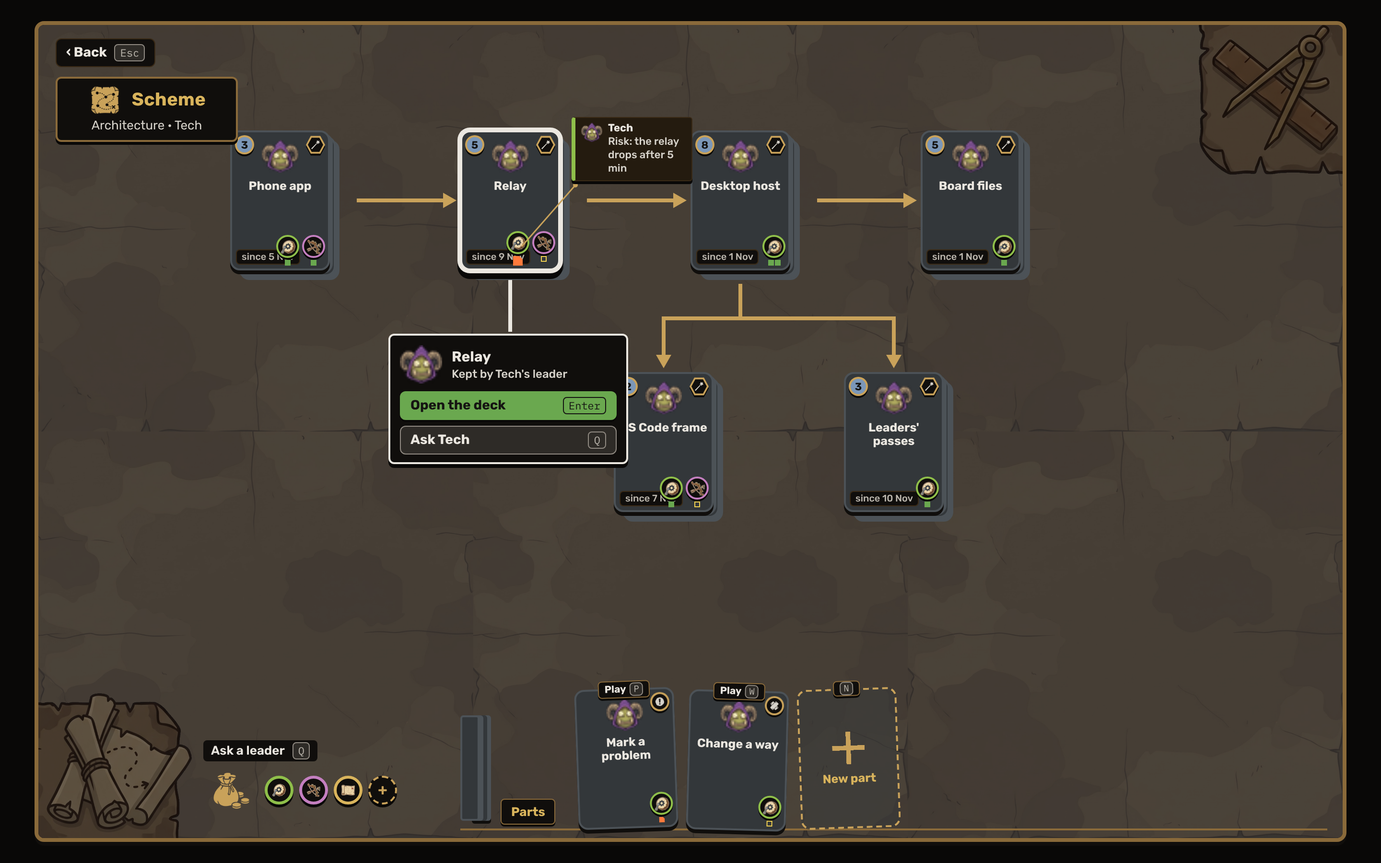
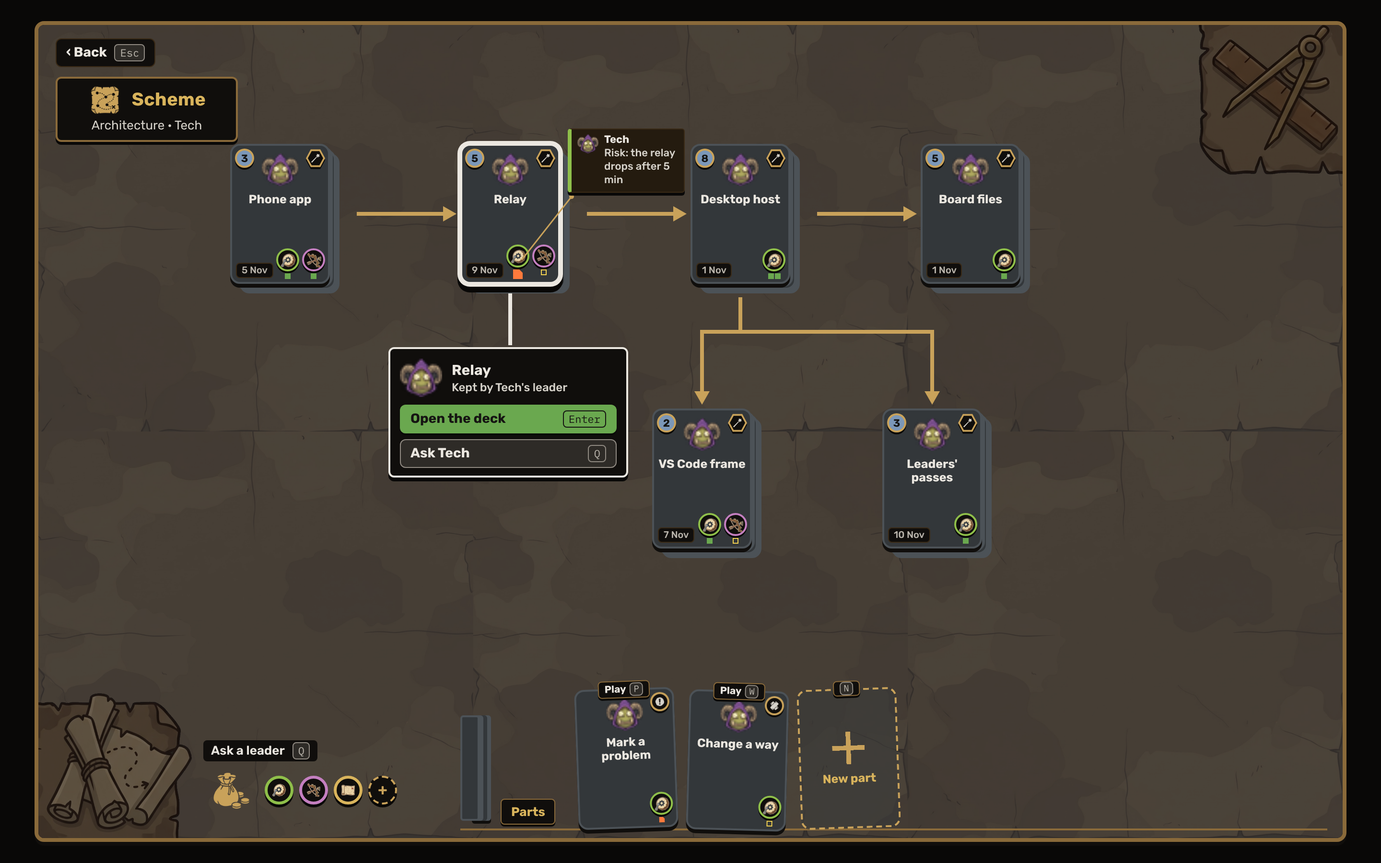
Mat mockups round 3: Slots as pockets of S cards, Scheme as decks of S cards, tool tokens with their slips
Claude-Session: https://claude.ai/code/session_01MCU3dnmwpxzAdFr5WE7TTZ

diff --git a/docs/mockups/mat-scenes/scheme.html b/docs/mockups/mat-scenes/scheme.html
@@ -146,7 +146,7 @@ body[data-face="phone"] .fpanel .btns { flex-direction: row; gap: 6px; margin-to
 body[data-face="phone"] .pouchbar { top: 584px; }
 </style>
 </head>
-<body data-face="desk"><script>try { if (new URLSearchParams(location.search).get("face") === "phone") document.body.dataset.face = "phone"; } catch (e) {}</script><div class="stage"><div class="field" data-party="ork"><div class="top"><span class="back">&lsaquo; Back <kbd class="k">Esc</kbd></span><div class="plate"><b><i aria-hidden="true"></i>Scheme</b><span>Architecture &middot; Tech</span></div></div><div class="desk-only"><div class="deck  " style="left:200px;top:110px"><i class="bk b3"></i><i class="bk b2"></i><i class="bk b1"></i><div class="card s"><span class="gw tl"><span class="gem circle mana"><i class="in">3</i></span></span><span class="gw tr"><span class="gem hex"><i class="in"><i class="ks" style="--k:url(../../../design-system/orkui/signs/feature.svg)"></i></i></span></span><img class="hd" src="../../../design-system/orkui/races/shaman-elder.png" alt=""><b class="t">Phone app</b><span class="when">since 5 Nov</span><span class="toks"><span class="tkn tech"><span class="ring"><img src="../../../design-system/orkui/tools/drum-gear.png" alt=""></span><span class="chk"><i class="ok"></i></span></span><span class="tkn design"><span class="ring"><img src="../../../design-system/orkui/tools/bow-drip.png" alt=""></span><span class="chk"><i class="ok"></i></span></span></span></div></div><div class="deck focus " style="left:440px;top:110px"><i class="bk b3"></i><i class="bk b2"></i><i class="bk b1"></i><div class="card s"><span class="gw tl"><span class="gem circle mana"><i class="in">5</i></span></span><span class="gw tr"><span class="gem hex"><i class="in"><i class="ks" style="--k:url(../../../design-system/orkui/signs/feature.svg)"></i></i></span></span><img class="hd" src="../../../design-system/orkui/races/shaman-elder.png" alt=""><b class="t">Relay</b><span class="when">since 9 Nov</span><span class="toks"><span class="tkn tech"><span class="ring" id="rtok"><img src="../../../design-system/orkui/tools/drum-gear.png" alt=""></span><span class="chk big"><i class="risk"></i></span></span><span class="tkn design"><span class="ring"><img src="../../../design-system/orkui/tools/bow-drip.png" alt=""></span><span class="chk"><i class="q"></i></span></span></span></div></div><div class="deck  " style="left:680px;top:110px"><i class="bk b3"></i><i class="bk b2"></i><i class="bk b1"></i><div class="card s"><span class="gw tl"><span class="gem circle mana"><i class="in">8</i></span></span><span class="gw tr"><span class="gem hex"><i class="in"><i class="ks" style="--k:url(../../../design-system/orkui/signs/feature.svg)"></i></i></span></span><img class="hd" src="../../../design-system/orkui/races/shaman-elder.png" alt=""><b class="t">Desktop host</b><span class="when">since 1 Nov</span><span class="toks"><span class="tkn tech"><span class="ring"><img src="../../../design-system/orkui/tools/drum-gear.png" alt=""></span><span class="chk"><i class="ok"></i><i class="ok"></i></span></span></span></div></div><div class="deck  " style="left:920px;top:110px"><i class="bk b3"></i><i class="bk b2"></i><i class="bk b1"></i><div class="card s"><span class="gw tl"><span class="gem circle mana"><i class="in">5</i></span></span><span class="gw tr"><span class="gem hex"><i class="in"><i class="ks" style="--k:url(../../../design-system/orkui/signs/feature.svg)"></i></i></span></span><img class="hd" src="../../../design-system/orkui/races/shaman-elder.png" alt=""><b class="t">Board files</b><span class="when">since 1 Nov</span><span class="toks"><span class="tkn tech"><span class="ring"><img src="../../../design-system/orkui/tools/drum-gear.png" alt=""></span><span class="chk"><i class="ok"></i></span></span></span></div></div><div class="deck  " style="left:600px;top:362px"><i class="bk b3"></i><i class="bk b2"></i><i class="bk b1"></i><div class="card s"><span class="gw tl"><span class="gem circle mana"><i class="in">2</i></span></span><span class="gw tr"><span class="gem hex"><i class="in"><i class="ks" style="--k:url(../../../design-system/orkui/signs/feature.svg)"></i></i></span></span><img class="hd" src="../../../design-system/orkui/races/shaman-elder.png" alt=""><b class="t">VS Code frame</b><span class="when">since 7 Nov</span><span class="toks"><span class="tkn tech"><span class="ring"><img src="../../../design-system/orkui/tools/drum-gear.png" alt=""></span><span class="chk"><i class="ok"></i></span></span><span class="tkn design"><span class="ring"><img src="../../../design-system/orkui/tools/bow-drip.png" alt=""></span><span class="chk"><i class="q"></i></span></span></span></div></div><div class="deck  " style="left:840px;top:362px"><i class="bk b3"></i><i class="bk b2"></i><i class="bk b1"></i><div class="card s"><span class="gw tl"><span class="gem circle mana"><i class="in">3</i></span></span><span class="gw tr"><span class="gem hex"><i class="in"><i class="ks" style="--k:url(../../../design-system/orkui/signs/feature.svg)"></i></i></span></span><img class="hd" src="../../../design-system/orkui/races/shaman-elder.png" alt=""><b class="t">Leaders' passes</b><span class="when">since 10 Nov</span><span class="toks"><span class="tkn tech"><span class="ring"><img src="../../../design-system/orkui/tools/drum-gear.png" alt=""></span><span class="chk"><i class="ok"></i></span></span></span></div></div><svg class="arrows" width="1360" height="848" viewBox="0 0 1360 848" aria-hidden="true"><path d="M332 183  L424 183"/><polygon points="436,183 422,175 422,191"/><path d="M572 183  L664 183"/><polygon points="676,183 662,175 662,191"/><path d="M812 183  L904 183"/><polygon points="916,183 902,175 902,191"/><path d="M732 270 L732 306 L652 306 L652 346"/><polygon points="652,358 644,344 660,344"/><path d="M732 270 L732 306 L892 306 L892 346"/><polygon points="892,358 884,344 900,344"/></svg><i class="tie" style="left:490px;top:266px;height:54px"></i><div class="fpanel" style="left:365px;top:322px"><img class="hd" src="../../../design-system/orkui/races/shaman-elder.png" alt=""><b>Relay</b><small>Kept by Tech's leader</small><div class="btns"><span class="btn go">Open the deck <kbd class="k">Enter</kbd></span><span class="btn">Ask Tech <kbd class="k">Q</kbd></span></div></div><div class="slip tech" data-for="rtok" style="left:556px;top:96px;width:126px;"><img src="../../../design-system/orkui/races/shaman-elder.png" alt=""><div><b>Tech</b>Risk: the relay drops after 5 min</div></div></div><div class="pscroll"><div class="deck  " style="left:10px;top:6px"><i class="bk b3"></i><i class="bk b2"></i><i class="bk b1"></i><div class="card s"><span class="gw tl"><span class="gem circle mana"><i class="in">3</i></span></span><span class="gw tr"><span class="gem hex"><i class="in"><i class="ks" style="--k:url(../../../design-system/orkui/signs/feature.svg)"></i></i></span></span><img class="hd" src="../../../design-system/orkui/races/shaman-elder.png" alt=""><b class="t">Phone app</b><span class="when">since 5 Nov</span><span class="toks"><span class="tkn tech"><span class="ring"><img src="../../../design-system/orkui/tools/drum-gear.png" alt=""></span><span class="chk"><i class="ok"></i></span></span><span class="tkn design"><span class="ring"><img src="../../../design-system/orkui/tools/bow-drip.png" alt=""></span><span class="chk"><i class="ok"></i></span></span></span></div></div><div class="deck focus " style="left:10px;top:182px"><i class="bk b3"></i><i class="bk b2"></i><i class="bk b1"></i><div class="card s"><span class="gw tl"><span class="gem circle mana"><i class="in">5</i></span></span><span class="gw tr"><span class="gem hex"><i class="in"><i class="ks" style="--k:url(../../../design-system/orkui/signs/feature.svg)"></i></i></span></span><img class="hd" src="../../../design-system/orkui/races/shaman-elder.png" alt=""><b class="t">Relay</b><span class="when">since 9 Nov</span><span class="toks"><span class="tkn tech"><span class="ring" id="rtokp"><img src="../../../design-system/orkui/tools/drum-gear.png" alt=""></span><span class="chk big"><i class="risk"></i></span></span><span class="tkn design"><span class="ring"><img src="../../../design-system/orkui/tools/bow-drip.png" alt=""></span><span class="chk"><i class="q"></i></span></span></span></div></div><div class="deck  " style="left:10px;top:358px"><i class="bk b3"></i><i class="bk b2"></i><i class="bk b1"></i><div class="card s"><span class="gw tl"><span class="gem circle mana"><i class="in">8</i></span></span><span class="gw tr"><span class="gem hex"><i class="in"><i class="ks" style="--k:url(../../../design-system/orkui/signs/feature.svg)"></i></i></span></span><img class="hd" src="../../../design-system/orkui/races/shaman-elder.png" alt=""><b class="t">Desktop host</b><span class="when">since 1 Nov</span><span class="toks"><span class="tkn tech"><span class="ring"><img src="../../../design-system/orkui/tools/drum-gear.png" alt=""></span><span class="chk"><i class="ok"></i><i class="ok"></i></span></span></span></div></div><div class="deck  " style="left:10px;top:534px"><i class="bk b3"></i><i class="bk b2"></i><i class="bk b1"></i><div class="card s"><span class="gw tl"><span class="gem circle mana"><i class="in">5</i></span></span><span class="gw tr"><span class="gem hex"><i class="in"><i class="ks" style="--k:url(../../../design-system/orkui/signs/feature.svg)"></i></i></span></span><img class="hd" src="../../../design-system/orkui/races/shaman-elder.png" alt=""><b class="t">Board files</b><span class="when">since 1 Nov</span><span class="toks"><span class="tkn tech"><span class="ring"><img src="../../../design-system/orkui/tools/drum-gear.png" alt=""></span><span class="chk"><i class="ok"></i></span></span></span></div></div><div class="deck  " style="left:200px;top:358px"><i class="bk b3"></i><i class="bk b2"></i><i class="bk b1"></i><div class="card s"><span class="gw tl"><span class="gem circle mana"><i class="in">2</i></span></span><span class="gw tr"><span class="gem hex"><i class="in"><i class="ks" style="--k:url(../../../design-system/orkui/signs/feature.svg)"></i></i></span></span><img class="hd" src="../../../design-system/orkui/races/shaman-elder.png" alt=""><b class="t">VS Code frame</b><span class="when">since 7 Nov</span><span class="toks"><span class="tkn tech"><span class="ring"><img src="../../../design-system/orkui/tools/drum-gear.png" alt=""></span><span class="chk"><i class="ok"></i></span></span><span class="tkn design"><span class="ring"><img src="../../../design-system/orkui/tools/bow-drip.png" alt=""></span><span class="chk"><i class="q"></i></span></span></span></div></div><div class="deck  " style="left:200px;top:534px"><i class="bk b3"></i><i class="bk b2"></i><i class="bk b1"></i><div class="card s"><span class="gw tl"><span class="gem circle mana"><i class="in">3</i></span></span><span class="gw tr"><span class="gem hex"><i class="in"><i class="ks" style="--k:url(../../../design-system/orkui/signs/feature.svg)"></i></i></span></span><img class="hd" src="../../../design-system/orkui/races/shaman-elder.png" alt=""><b class="t">Leaders' passes</b><span class="when">since 10 Nov</span><span class="toks"><span class="tkn tech"><span class="ring"><img src="../../../design-system/orkui/tools/drum-gear.png" alt=""></span><span class="chk"><i class="ok"></i></span></span></span></div></div><svg class="arrows" width="362" height="760" viewBox="0 0 362 760" aria-hidden="true"><path d="M62 166  L62 168"/><polygon points="62,180 54,166 70,166"/><path d="M62 342  L62 344"/><polygon points="62,356 54,342 70,342"/><path d="M62 518  L62 520"/><polygon points="62,532 54,518 70,518"/><path d="M126 431  L186 431"/><polygon points="198,431 184,423 184,439"/><path d="M162 431 L162 607 L186 607"/><polygon points="198,607 184,599 184,615"/></svg><div class="fpanel" style="left:140px;top:186px"><img class="hd" src="../../../design-system/orkui/races/shaman-elder.png" alt=""><b>Relay</b><small>Kept by Tech's leader</small><div class="btns"><span class="btn go">Open the deck <kbd class="k">Enter</kbd></span><span class="btn">Ask Tech <kbd class="k">Q</kbd></span></div></div><div class="slip tech" data-for="rtokp" style="left:140px;top:280px;width:212px;"><img src="../../../design-system/orkui/races/shaman-elder.png" alt=""><div><b>Tech</b>Risk: the relay drops after 5 min</div></div></div><i class="rail" aria-hidden="true"></i><div class="hand"><i class="pile" aria-label="Moves that wait"></i><span class="holds">Parts</span><div class="cs"><div class="card s"><span class="keytab">Play <kbd class="k">P</kbd></span><span class="gw tr"><span class="gem circle"><i class="in"><i class="ks" style="--k:url(../../../design-system/orkui/signs/alert.svg)"></i></i></span></span><img class="hd" src="../../../design-system/orkui/races/shaman-elder.png" alt=""><b class="t">Mark a problem</b><span class="toks"><span class="tkn tech"><span class="ring"><img src="../../../design-system/orkui/tools/drum-gear.png" alt=""></span><span class="chk"><i class="risk"></i></span></span></span></div><div class="card s"><span class="keytab">Play <kbd class="k">W</kbd></span><span class="gw tr"><span class="gem circle"><i class="in"><i class="ks" style="--k:url(../../../design-system/orkui/signs/conflict.svg)"></i></i></span></span><img class="hd" src="../../../design-system/orkui/races/shaman-elder.png" alt=""><b class="t">Change a way</b><span class="toks"><span class="tkn tech"><span class="ring"><img src="../../../design-system/orkui/tools/drum-gear.png" alt=""></span><span class="chk"><i class="q"></i></span></span></span></div><div class="card blank"><span class="keytab"><kbd class="k">N</kbd></span><i class="plus"></i><b class="t">New part</b></div></div></div><div class="pouchbar"><span class="cap">Ask a leader <kbd class="k">Q</kbd></span><i class="pouch" aria-hidden="true"></i><div class="row"><span class="ptk tech"><img src="../../../design-system/orkui/tools/drum-gear.png" alt="tech"></span><span class="ptk design"><img src="../../../design-system/orkui/tools/bow-drip.png" alt="design"></span><span class="ptk product"><img src="../../../design-system/orkui/tools/map-cross.png" alt="product"></span><span class="ptk add" title="Ask another">+</span></div></div><div class="prop tr" aria-hidden="true"><img src="props/scheme-tr.png" alt=""></div><div class="prop bl" aria-hidden="true"><img src="props/scheme-bl.png" alt=""></div></div></div><script>
+<body data-face="desk"><script>try { if (new URLSearchParams(location.search).get("face") === "phone") document.body.dataset.face = "phone"; } catch (e) {}</script><div class="stage"><div class="field" data-party="ork"><div class="top"><span class="back">&lsaquo; Back <kbd class="k">Esc</kbd></span><div class="plate"><b><i aria-hidden="true"></i>Scheme</b><span>Architecture &middot; Tech</span></div></div><div class="desk-only"><div class="deck  " style="left:200px;top:124px"><i class="bk b3"></i><i class="bk b2"></i><i class="bk b1"></i><div class="card s"><span class="gw tl"><span class="gem circle mana"><i class="in">3</i></span></span><span class="gw tr"><span class="gem hex"><i class="in"><i class="ks" style="--k:url(../../../design-system/orkui/signs/feature.svg)"></i></i></span></span><img class="hd" src="../../../design-system/orkui/races/shaman-elder.png" alt=""><b class="t">Phone app</b><span class="when">5 Nov</span><span class="toks"><span class="tkn tech"><span class="ring"><img src="../../../design-system/orkui/tools/drum-gear.png" alt=""></span><span class="chk"><i class="ok"></i></span></span><span class="tkn design"><span class="ring"><img src="../../../design-system/orkui/tools/bow-drip.png" alt=""></span><span class="chk"><i class="ok"></i></span></span></span></div></div><div class="deck focus " style="left:440px;top:124px"><i class="bk b3"></i><i class="bk b2"></i><i class="bk b1"></i><div class="card s"><span class="gw tl"><span class="gem circle mana"><i class="in">5</i></span></span><span class="gw tr"><span class="gem hex"><i class="in"><i class="ks" style="--k:url(../../../design-system/orkui/signs/feature.svg)"></i></i></span></span><img class="hd" src="../../../design-system/orkui/races/shaman-elder.png" alt=""><b class="t">Relay</b><span class="when">9 Nov</span><span class="toks"><span class="tkn tech"><span class="ring" id="rtok"><img src="../../../design-system/orkui/tools/drum-gear.png" alt=""></span><span class="chk big"><i class="risk"></i></span></span><span class="tkn design"><span class="ring"><img src="../../../design-system/orkui/tools/bow-drip.png" alt=""></span><span class="chk"><i class="q"></i></span></span></span></div></div><div class="deck  " style="left:680px;top:124px"><i class="bk b3"></i><i class="bk b2"></i><i class="bk b1"></i><div class="card s"><span class="gw tl"><span class="gem circle mana"><i class="in">8</i></span></span><span class="gw tr"><span class="gem hex"><i class="in"><i class="ks" style="--k:url(../../../design-system/orkui/signs/feature.svg)"></i></i></span></span><img class="hd" src="../../../design-system/orkui/races/shaman-elder.png" alt=""><b class="t">Desktop host</b><span class="when">1 Nov</span><span class="toks"><span class="tkn tech"><span class="ring"><img src="../../../design-system/orkui/tools/drum-gear.png" alt=""></span><span class="chk"><i class="ok"></i><i class="ok"></i></span></span></span></div></div><div class="deck  " style="left:920px;top:124px"><i class="bk b3"></i><i class="bk b2"></i><i class="bk b1"></i><div class="card s"><span class="gw tl"><span class="gem circle mana"><i class="in">5</i></span></span><span class="gw tr"><span class="gem hex"><i class="in"><i class="ks" style="--k:url(../../../design-system/orkui/signs/feature.svg)"></i></i></span></span><img class="hd" src="../../../design-system/orkui/races/shaman-elder.png" alt=""><b class="t">Board files</b><span class="when">1 Nov</span><span class="toks"><span class="tkn tech"><span class="ring"><img src="../../../design-system/orkui/tools/drum-gear.png" alt=""></span><span class="chk"><i class="ok"></i></span></span></span></div></div><div class="deck  " style="left:640px;top:400px"><i class="bk b3"></i><i class="bk b2"></i><i class="bk b1"></i><div class="card s"><span class="gw tl"><span class="gem circle mana"><i class="in">2</i></span></span><span class="gw tr"><span class="gem hex"><i class="in"><i class="ks" style="--k:url(../../../design-system/orkui/signs/feature.svg)"></i></i></span></span><img class="hd" src="../../../design-system/orkui/races/shaman-elder.png" alt=""><b class="t">VS Code frame</b><span class="when">7 Nov</span><span class="toks"><span class="tkn tech"><span class="ring"><img src="../../../design-system/orkui/tools/drum-gear.png" alt=""></span><span class="chk"><i class="ok"></i></span></span><span class="tkn design"><span class="ring"><img src="../../../design-system/orkui/tools/bow-drip.png" alt=""></span><span class="chk"><i class="q"></i></span></span></span></div></div><div class="deck  " style="left:880px;top:400px"><i class="bk b3"></i><i class="bk b2"></i><i class="bk b1"></i><div class="card s"><span class="gw tl"><span class="gem circle mana"><i class="in">3</i></span></span><span class="gw tr"><span class="gem hex"><i class="in"><i class="ks" style="--k:url(../../../design-system/orkui/signs/feature.svg)"></i></i></span></span><img class="hd" src="../../../design-system/orkui/races/shaman-elder.png" alt=""><b class="t">Leaders' passes</b><span class="when">10 Nov</span><span class="toks"><span class="tkn tech"><span class="ring"><img src="../../../design-system/orkui/tools/drum-gear.png" alt=""></span><span class="chk"><i class="ok"></i></span></span></span></div></div><svg class="arrows" width="1360" height="848" viewBox="0 0 1360 848" aria-hidden="true"><path d="M332 197  L424 197"/><polygon points="436,197 422,189 422,205"/><path d="M572 197  L664 197"/><polygon points="676,197 662,189 662,205"/><path d="M812 197  L904 197"/><polygon points="916,197 902,189 902,205"/><path d="M732 284 L732 320 L692 320 L692 384"/><polygon points="692,396 684,382 700,382"/><path d="M732 284 L732 320 L932 320 L932 384"/><polygon points="932,396 924,382 940,382"/></svg><i class="tie" style="left:490px;top:280px;height:54px"></i><div class="fpanel" style="left:365px;top:336px"><img class="hd" src="../../../design-system/orkui/races/shaman-elder.png" alt=""><b>Relay</b><small>Kept by Tech's leader</small><div class="btns"><span class="btn go">Open the deck <kbd class="k">Enter</kbd></span><span class="btn">Ask Tech <kbd class="k">Q</kbd></span></div></div><div class="slip tech" data-for="rtok" style="left:552px;top:108px;width:122px;"><img src="../../../design-system/orkui/races/shaman-elder.png" alt=""><div><b>Tech</b>Risk: the relay drops after 5 min</div></div></div><div class="pscroll"><div class="deck  " style="left:10px;top:6px"><i class="bk b3"></i><i class="bk b2"></i><i class="bk b1"></i><div class="card s"><span class="gw tl"><span class="gem circle mana"><i class="in">3</i></span></span><span class="gw tr"><span class="gem hex"><i class="in"><i class="ks" style="--k:url(../../../design-system/orkui/signs/feature.svg)"></i></i></span></span><img class="hd" src="../../../design-system/orkui/races/shaman-elder.png" alt=""><b class="t">Phone app</b><span class="when">5 Nov</span><span class="toks"><span class="tkn tech"><span class="ring"><img src="../../../design-system/orkui/tools/drum-gear.png" alt=""></span><span class="chk"><i class="ok"></i></span></span><span class="tkn design"><span class="ring"><img src="../../../design-system/orkui/tools/bow-drip.png" alt=""></span><span class="chk"><i class="ok"></i></span></span></span></div></div><div class="deck focus " style="left:10px;top:182px"><i class="bk b3"></i><i class="bk b2"></i><i class="bk b1"></i><div class="card s"><span class="gw tl"><span class="gem circle mana"><i class="in">5</i></span></span><span class="gw tr"><span class="gem hex"><i class="in"><i class="ks" style="--k:url(../../../design-system/orkui/signs/feature.svg)"></i></i></span></span><img class="hd" src="../../../design-system/orkui/races/shaman-elder.png" alt=""><b class="t">Relay</b><span class="when">9 Nov</span><span class="toks"><span class="tkn tech"><span class="ring" id="rtokp"><img src="../../../design-system/orkui/tools/drum-gear.png" alt=""></span><span class="chk big"><i class="risk"></i></span></span><span class="tkn design"><span class="ring"><img src="../../../design-system/orkui/tools/bow-drip.png" alt=""></span><span class="chk"><i class="q"></i></span></span></span></div></div><div class="deck  " style="left:10px;top:358px"><i class="bk b3"></i><i class="bk b2"></i><i class="bk b1"></i><div class="card s"><span class="gw tl"><span class="gem circle mana"><i class="in">8</i></span></span><span class="gw tr"><span class="gem hex"><i class="in"><i class="ks" style="--k:url(../../../design-system/orkui/signs/feature.svg)"></i></i></span></span><img class="hd" src="../../../design-system/orkui/races/shaman-elder.png" alt=""><b class="t">Desktop host</b><span class="when">1 Nov</span><span class="toks"><span class="tkn tech"><span class="ring"><img src="../../../design-system/orkui/tools/drum-gear.png" alt=""></span><span class="chk"><i class="ok"></i><i class="ok"></i></span></span></span></div></div><div class="deck  " style="left:10px;top:534px"><i class="bk b3"></i><i class="bk b2"></i><i class="bk b1"></i><div class="card s"><span class="gw tl"><span class="gem circle mana"><i class="in">5</i></span></span><span class="gw tr"><span class="gem hex"><i class="in"><i class="ks" style="--k:url(../../../design-system/orkui/signs/feature.svg)"></i></i></span></span><img class="hd" src="../../../design-system/orkui/races/shaman-elder.png" alt=""><b class="t">Board files</b><span class="when">1 Nov</span><span class="toks"><span class="tkn tech"><span class="ring"><img src="../../../design-system/orkui/tools/drum-gear.png" alt=""></span><span class="chk"><i class="ok"></i></span></span></span></div></div><div class="deck  " style="left:200px;top:358px"><i class="bk b3"></i><i class="bk b2"></i><i class="bk b1"></i><div class="card s"><span class="gw tl"><span class="gem circle mana"><i class="in">2</i></span></span><span class="gw tr"><span class="gem hex"><i class="in"><i class="ks" style="--k:url(../../../design-system/orkui/signs/feature.svg)"></i></i></span></span><img class="hd" src="../../../design-system/orkui/races/shaman-elder.png" alt=""><b class="t">VS Code frame</b><span class="when">7 Nov</span><span class="toks"><span class="tkn tech"><span class="ring"><img src="../../../design-system/orkui/tools/drum-gear.png" alt=""></span><span class="chk"><i class="ok"></i></span></span><span class="tkn design"><span class="ring"><img src="../../../design-system/orkui/tools/bow-drip.png" alt=""></span><span class="chk"><i class="q"></i></span></span></span></div></div><div class="deck  " style="left:200px;top:534px"><i class="bk b3"></i><i class="bk b2"></i><i class="bk b1"></i><div class="card s"><span class="gw tl"><span class="gem circle mana"><i class="in">3</i></span></span><span class="gw tr"><span class="gem hex"><i class="in"><i class="ks" style="--k:url(../../../design-system/orkui/signs/feature.svg)"></i></i></span></span><img class="hd" src="../../../design-system/orkui/races/shaman-elder.png" alt=""><b class="t">Leaders' passes</b><span class="when">10 Nov</span><span class="toks"><span class="tkn tech"><span class="ring"><img src="../../../design-system/orkui/tools/drum-gear.png" alt=""></span><span class="chk"><i class="ok"></i></span></span></span></div></div><svg class="arrows" width="362" height="760" viewBox="0 0 362 760" aria-hidden="true"><path d="M62 166  L62 168"/><polygon points="62,180 54,166 70,166"/><path d="M62 342  L62 344"/><polygon points="62,356 54,342 70,342"/><path d="M62 518  L62 520"/><polygon points="62,532 54,518 70,518"/><path d="M126 431  L186 431"/><polygon points="198,431 184,423 184,439"/><path d="M162 431 L162 607 L186 607"/><polygon points="198,607 184,599 184,615"/></svg><div class="fpanel" style="left:140px;top:186px"><img class="hd" src="../../../design-system/orkui/races/shaman-elder.png" alt=""><b>Relay</b><small>Kept by Tech's leader</small><div class="btns"><span class="btn go">Open the deck <kbd class="k">Enter</kbd></span><span class="btn">Ask Tech <kbd class="k">Q</kbd></span></div></div><div class="slip tech" data-for="rtokp" style="left:140px;top:280px;width:212px;"><img src="../../../design-system/orkui/races/shaman-elder.png" alt=""><div><b>Tech</b>Risk: the relay drops after 5 min</div></div></div><i class="rail" aria-hidden="true"></i><div class="hand"><i class="pile" aria-label="Moves that wait"></i><span class="holds">Parts</span><div class="cs"><div class="card s"><span class="keytab">Play <kbd class="k">P</kbd></span><span class="gw tr"><span class="gem circle"><i class="in"><i class="ks" style="--k:url(../../../design-system/orkui/signs/alert.svg)"></i></i></span></span><img class="hd" src="../../../design-system/orkui/races/shaman-elder.png" alt=""><b class="t">Mark a problem</b><span class="toks"><span class="tkn tech"><span class="ring"><img src="../../../design-system/orkui/tools/drum-gear.png" alt=""></span><span class="chk"><i class="risk"></i></span></span></span></div><div class="card s"><span class="keytab">Play <kbd class="k">W</kbd></span><span class="gw tr"><span class="gem circle"><i class="in"><i class="ks" style="--k:url(../../../design-system/orkui/signs/conflict.svg)"></i></i></span></span><img class="hd" src="../../../design-system/orkui/races/shaman-elder.png" alt=""><b class="t">Change a way</b><span class="toks"><span class="tkn tech"><span class="ring"><img src="../../../design-system/orkui/tools/drum-gear.png" alt=""></span><span class="chk"><i class="q"></i></span></span></span></div><div class="card blank"><span class="keytab"><kbd class="k">N</kbd></span><i class="plus"></i><b class="t">New part</b></div></div></div><div class="pouchbar"><span class="cap">Ask a leader <kbd class="k">Q</kbd></span><i class="pouch" aria-hidden="true"></i><div class="row"><span class="ptk tech"><img src="../../../design-system/orkui/tools/drum-gear.png" alt="tech"></span><span class="ptk design"><img src="../../../design-system/orkui/tools/bow-drip.png" alt="design"></span><span class="ptk product"><img src="../../../design-system/orkui/tools/map-cross.png" alt="product"></span><span class="ptk add" title="Ask another">+</span></div></div><div class="prop tr" aria-hidden="true"><img src="props/scheme-tr.png" alt=""></div><div class="prop bl" aria-hidden="true"><img src="props/scheme-bl.png" alt=""></div></div></div><script>
 window.addEventListener("load", function () { setTimeout(function () {
   var f = document.querySelector(".field"), fr = f.getBoundingClientRect(), ns = "http://www.w3.org/2000/svg";
   var s = document.createElementNS(ns, "svg"); s.setAttribute("class", "threads"); f.appendChild(s);

diff --git a/docs/mockups/mat-scenes/backpack.html b/docs/mockups/mat-scenes/backpack.html
@@ -227,6 +227,13 @@ body[data-face="phone"] .moves .btn i.ic { display: none; }
 .pk.sm { height: 84px; } .pk.sm .plus { bottom: 60px; } 
 .moves { top: 626px; left: 214px; }
 .moves .btn { font-size: 13px; padding: 5px 10px; }
+body[data-face="phone"] { --prop: 64px; }
+body[data-face="phone"] .top { left: 70px; right: 62px; }
+body[data-face="phone"] .plate { margin-left: 68px; padding: 3px 2px 5px; }
+body[data-face="phone"] .field { --em: 26px; }
+body[data-face="phone"] .plate b { font-size: 13px; gap: 4px; }
+body[data-face="phone"] .plate b .tok .ring { width: 26px !important; height: 26px !important; } body[data-face="phone"] .plate b .tok .ring img { width: 16px !important; height: 16px !important; }
+body[data-face="phone"] .back { left: 0; }
 body[data-face="phone"] .dgw { display: none; }
 body[data-face="phone"] .pl { top: 138px; }
 body[data-face="phone"] .moves { left: 10px; right: 10px; top: 490px; }
